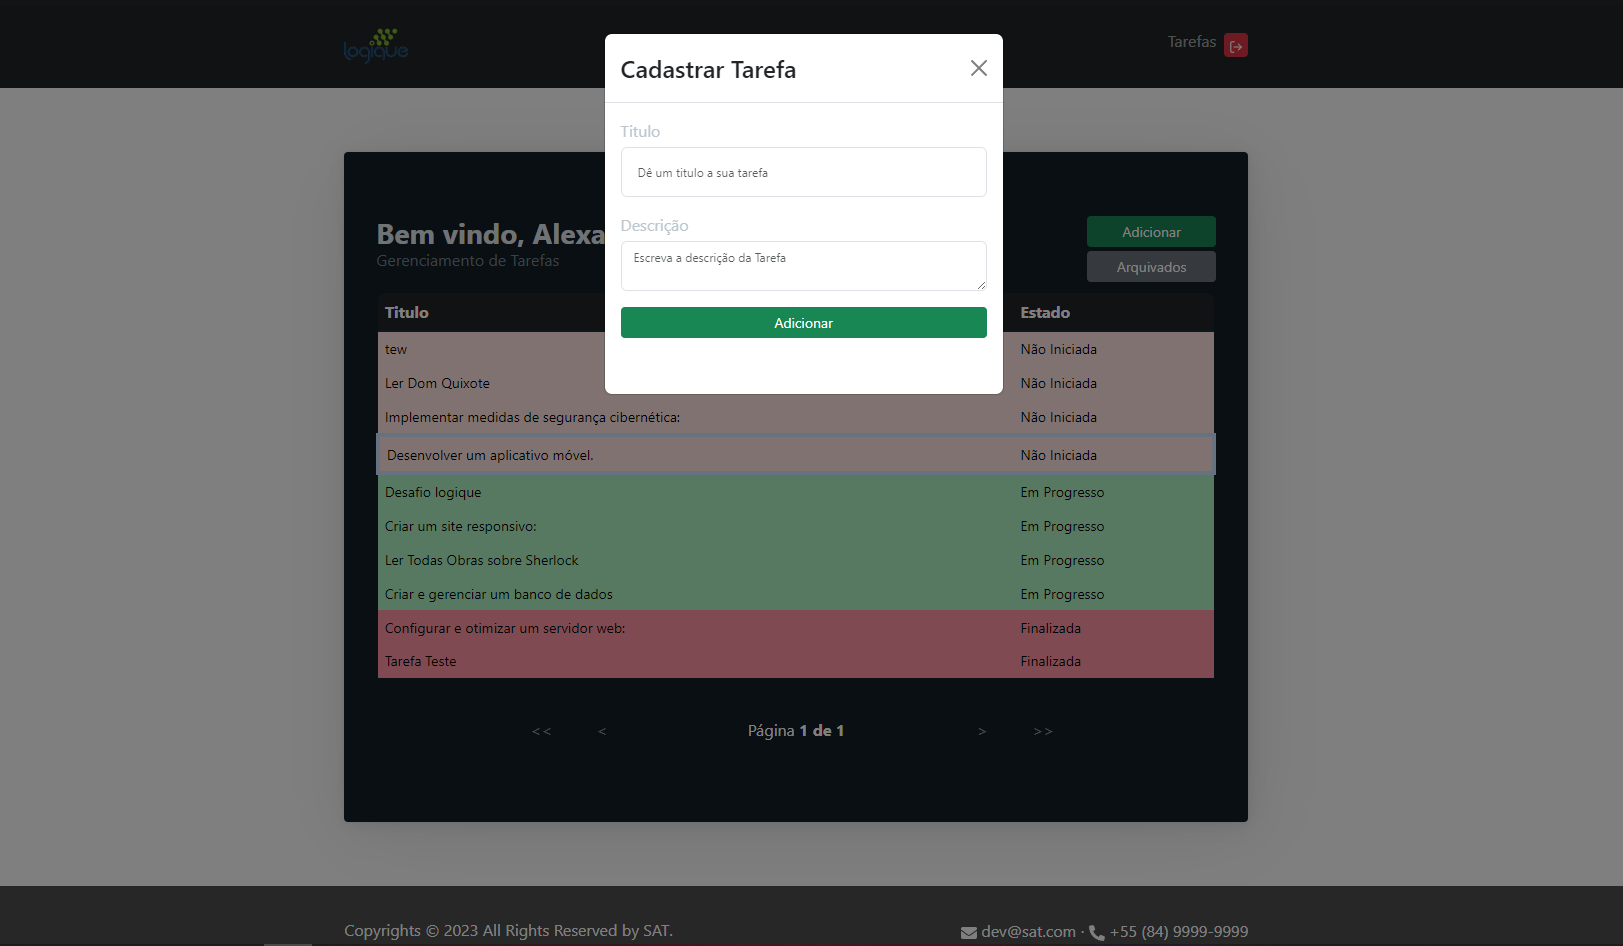
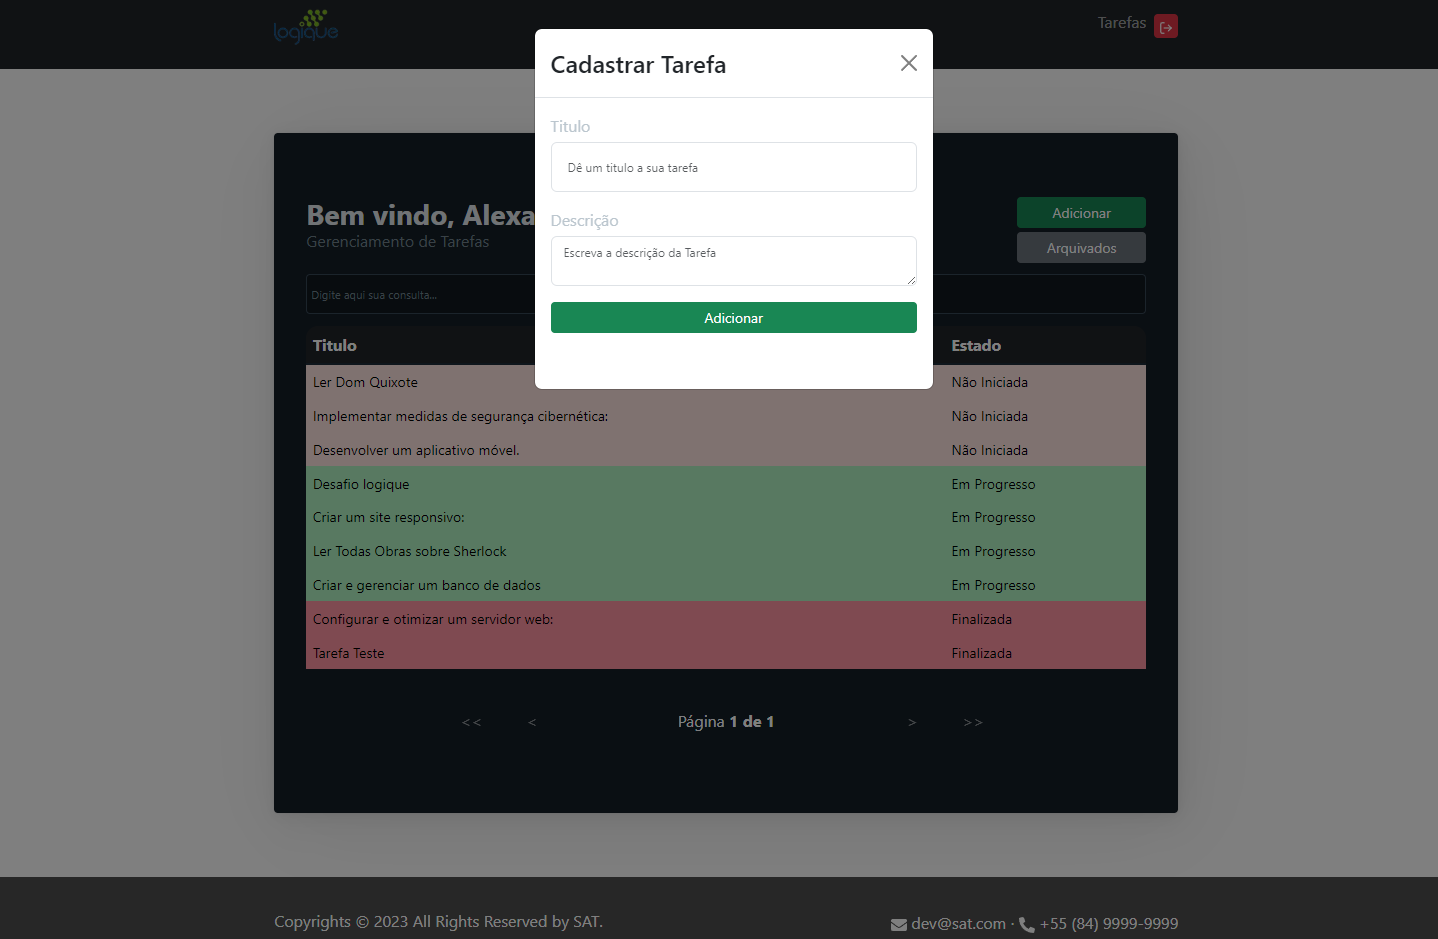
readme update

diff --git a/frontend/src/components/ModalTarefa/index.tsx b/frontend/src/components/ModalTarefa/index.tsx
@@ -45,7 +45,7 @@ const ModalTarefa: React.FC<ModalTarefaProps> = ({
       } catch (error) {
         toast.error("Erro de Atualizacao da tabela");
       }
-      toast.success("Usuário criado com sucesso!");
+      toast.success("Tarefa criada com sucesso!");
       fecharModal();
     } catch (error) {
       setIsWaitingResponse(false);

diff --git a/README.md b/README.md
@@ -88,10 +88,13 @@ yarn dev
 - para visualizar essa tela o usuario tem que estar efetivamente logado, caso contrário ele não consiguirá acessar-la.
   ![Tela de Tarefas](./public/tela-tarefas.png)
 
+  - Nesta tela, digitando no input de consulta o usuário consegue filtrar as informações que ele preferir.
+    ![Tela de Tarefas filtradas](./public/tela-filtrada.png)
+
   - Nesta tela, clicando no botão de <kbd>Adicionar</kbd> é aberto um modal para cadastramento de novas tarefas. Todas tarefas recem criadas tem o estado como "Não iniciada".
     ![Tela de Adicionar tarefas](./public/tela-add.png)
 
-  - Nesta tela, clicando no botão de <kbd>Arquivados</kbd> é aberto um modal que te dá acesso a uma lista de tarefas que foram arquivadas. Nessa lista o usuário pode selecionar qualquer tarefa e desarquivar ela.
+  - Nesta tela, clicando no botão de <kbd>Arquivados</kbd> é aberto um modal que te dá acesso a uma lista de tarefas que foram arquivadas. Nessa lista o usuário pode selecionar qualquer tarefa e desarquivar ela ou excluí-la.
     ![Tela de arquivadas](./public/tela-arquivadas.png)
 
   - Nessa tela, selecionando uma atividade, o usuário pode com um clique no botão direito ter acesso as funcionalidades de <kbd>Mudar Status</kbd>, <kbd>Editar Tarefa</kbd> e <kbd>Arquivar</kbd>.
@@ -103,4 +106,7 @@ yarn dev
       ![Tela de Mudança de Status](./public/tela-muda-status.png)
 
     - Clicando em <kbd>Editar Tarefa</kbd> é aberto um modal que possibilita a edição tanto de titulo quanto de descrição. Tenha em mente que a edição de tarefas tem regras... mas caso alguma seja desrespeitada o usuário recebe um toast explicativo
+      ![Tela de Edição de tarefa](./public/tela-edit.png)
+
+    - Clicando em <kbd>Excluir</kbd> a tarefa é imediatamente excluida. Tenha em mente que a exclusão tem regras... mas caso alguma seja desrespeitada o usuário recebe um toast explicativo
       ![Tela de Edição de tarefa](./public/tela-edit.png)
